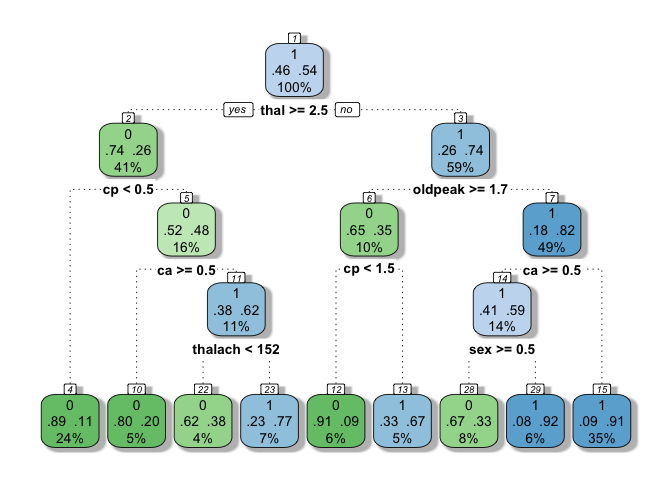
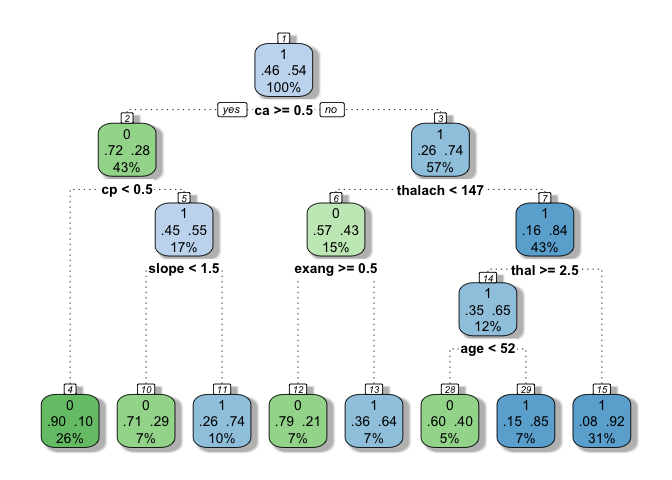
Update Heart Disease project

diff --git a/Data_Science_projects/Heart_disease_risk_analysis/heart-disease-eda-and-random-forest-with-r.md b/Data_Science_projects/Heart_disease_risk_analysis/heart-disease-eda-and-random-forest-with-r.md
@@ -1,6 +1,5 @@
 Heart Disease: EDA and Random forest with R
 ================
-William Guesdon
 Compiled: February 07, 2021
 
 ## Introduction
@@ -988,7 +987,7 @@ According to parameters the model should be at least 88% accurate.
 cat("Model accuracy", round(accuracy, digits = 2)*100, "%")  
 ```
 
-    ## Model accuracy 87 %
+    ## Model accuracy 86 %
 
 Print the desicion tree.
 
@@ -1031,7 +1030,7 @@ According to parameters the model should be at least 88% accurate.
 cat("Model accuracy", round(accuracy, digits = 2)*100, "%")  
 ```
 
-    ## Model accuracy 88 %
+    ## Model accuracy 89 %
 
 Print the desicion tree.
 
@@ -1050,7 +1049,7 @@ fancyRpartPlot(mod_class, , caption = NULL)
 ### C Prediction on selected column with random forest
 
 ``` r
-set.seed(103)
+set.seed(123)
 train <- sample(nrow(df_select), 0.7*nrow(df_select), replace = FALSE)
 TrainSet <- df_select[train,]
 ValidSet <- df_select[-train,]
@@ -1058,38 +1057,38 @@ summary(TrainSet)
 ```
 
     ##  target       age             sex              chol        restecg      
-    ##  0: 93   Min.   :29.00   Min.   :0.0000   Min.   :126   Min.   :0.0000  
-    ##  1:114   1st Qu.:46.50   1st Qu.:0.0000   1st Qu.:211   1st Qu.:0.0000  
-    ##          Median :55.00   Median :1.0000   Median :239   Median :1.0000  
-    ##          Mean   :54.03   Mean   :0.6908   Mean   :246   Mean   :0.5411  
-    ##          3rd Qu.:60.00   3rd Qu.:1.0000   3rd Qu.:277   3rd Qu.:1.0000  
+    ##  0: 91   Min.   :29.00   Min.   :0.0000   Min.   :126   Min.   :0.0000  
+    ##  1:116   1st Qu.:48.00   1st Qu.:0.0000   1st Qu.:208   1st Qu.:0.0000  
+    ##          Median :56.00   Median :1.0000   Median :240   Median :0.0000  
+    ##          Mean   :55.02   Mean   :0.6763   Mean   :244   Mean   :0.5024  
+    ##          3rd Qu.:62.00   3rd Qu.:1.0000   3rd Qu.:272   3rd Qu.:1.0000  
     ##          Max.   :77.00   Max.   :1.0000   Max.   :564   Max.   :2.0000  
-    ##        cp            thalach          slope      
-    ##  Min.   :0.0000   Min.   : 88.0   Min.   :0.000  
-    ##  1st Qu.:0.0000   1st Qu.:132.0   1st Qu.:1.000  
-    ##  Median :1.0000   Median :152.0   Median :1.000  
-    ##  Mean   :0.9903   Mean   :149.3   Mean   :1.377  
-    ##  3rd Qu.:2.0000   3rd Qu.:167.5   3rd Qu.:2.000  
-    ##  Max.   :3.0000   Max.   :202.0   Max.   :2.000
+    ##        cp           thalach          slope      
+    ##  Min.   :0.000   Min.   : 95.0   Min.   :0.000  
+    ##  1st Qu.:0.000   1st Qu.:136.0   1st Qu.:1.000  
+    ##  Median :1.000   Median :153.0   Median :1.000  
+    ##  Mean   :1.014   Mean   :150.2   Mean   :1.386  
+    ##  3rd Qu.:2.000   3rd Qu.:165.0   3rd Qu.:2.000  
+    ##  Max.   :3.000   Max.   :202.0   Max.   :2.000
 
 ``` r
 summary(ValidSet)
 ```
 
-    ##  target      age             sex              chol          restecg      
-    ##  0:43   Min.   :34.00   Min.   :0.0000   Min.   :131.0   Min.   :0.0000  
-    ##  1:46   1st Qu.:50.00   1st Qu.:0.0000   1st Qu.:213.0   1st Qu.:0.0000  
-    ##         Median :57.00   Median :1.0000   Median :245.0   Median :0.0000  
-    ##         Mean   :55.67   Mean   :0.6517   Mean   :249.9   Mean   :0.4831  
-    ##         3rd Qu.:62.00   3rd Qu.:1.0000   3rd Qu.:274.0   3rd Qu.:1.0000  
-    ##         Max.   :74.00   Max.   :1.0000   Max.   :417.0   Max.   :1.0000  
+    ##  target      age             sex              chol          restecg     
+    ##  0:45   Min.   :35.00   Min.   :0.0000   Min.   :175.0   Min.   :0.000  
+    ##  1:44   1st Qu.:47.00   1st Qu.:0.0000   1st Qu.:223.0   1st Qu.:0.000  
+    ##         Median :54.00   Median :1.0000   Median :247.0   Median :1.000  
+    ##         Mean   :53.37   Mean   :0.6854   Mean   :254.5   Mean   :0.573  
+    ##         3rd Qu.:59.00   3rd Qu.:1.0000   3rd Qu.:283.0   3rd Qu.:1.000  
+    ##         Max.   :70.00   Max.   :1.0000   Max.   :409.0   Max.   :2.000  
     ##        cp            thalach          slope      
     ##  Min.   :0.0000   Min.   : 71.0   Min.   :0.000  
-    ##  1st Qu.:0.0000   1st Qu.:142.0   1st Qu.:1.000  
-    ##  Median :0.0000   Median :154.0   Median :2.000  
-    ##  Mean   :0.8876   Mean   :150.2   Mean   :1.438  
-    ##  3rd Qu.:2.0000   3rd Qu.:163.0   3rd Qu.:2.000  
-    ##  Max.   :3.0000   Max.   :192.0   Max.   :2.000
+    ##  1st Qu.:0.0000   1st Qu.:132.0   1st Qu.:1.000  
+    ##  Median :0.0000   Median :152.0   Median :1.000  
+    ##  Mean   :0.8315   Mean   :148.2   Mean   :1.416  
+    ##  3rd Qu.:2.0000   3rd Qu.:168.0   3rd Qu.:2.000  
+    ##  Max.   :3.0000   Max.   :190.0   Max.   :2.000
 
 ``` r
 # Create a Random Forest model with default parameters
@@ -1104,11 +1103,11 @@ model1
     ##                      Number of trees: 1000
     ## No. of variables tried at each split: 1
     ## 
-    ##         OOB estimate of  error rate: 26.09%
+    ##         OOB estimate of  error rate: 28.02%
     ## Confusion matrix:
     ##    0  1 class.error
-    ## 0 66 27   0.2903226
-    ## 1 27 87   0.2368421
+    ## 0 58 33   0.3626374
+    ## 1 25 91   0.2155172
 
 ``` r
 # Predicting on train set
@@ -1119,8 +1118,8 @@ table(predTrain, TrainSet$target)
 
     ##          
     ## predTrain   0   1
-    ##         0  84  10
-    ##         1   9 104
+    ##         0  80   9
+    ##         1  11 107
 
 ``` r
 # Predicting on Validation set
@@ -1129,7 +1128,7 @@ predValid <- predict(model1, ValidSet, type = "class")
 mean(predValid == ValidSet$target)                    
 ```
 
-    ## [1] 0.8426966
+    ## [1] 0.7977528
 
 ``` r
 table(predValid,ValidSet$target)
@@ -1137,22 +1136,22 @@ table(predValid,ValidSet$target)
 
     ##          
     ## predValid  0  1
-    ##         0 34  5
-    ##         1  9 41
+    ##         0 36  9
+    ##         1  9 35
 
 ``` r
 # To check important variables
 importance(model1)        
 ```
 
-    ##                  0          1 MeanDecreaseAccuracy MeanDecreaseGini
-    ## age      8.5635858  8.1274728           11.2387546        10.754847
-    ## sex     20.7787044 16.4186188           22.8891913         5.828656
-    ## chol    -0.6401581  0.1514547           -0.3373315         9.016257
-    ## restecg  3.2825129 -0.2000304            2.0950618         2.718995
-    ## cp      21.0887042 22.3577590           25.9377637        11.363132
-    ## thalach 13.9497972 12.7792174           18.4671834        13.544435
-    ## slope   16.3291696 14.9037870           20.2973077         7.420501
+    ##                 0            1 MeanDecreaseAccuracy MeanDecreaseGini
+    ## age      3.456978 11.118814352            10.045334        10.174882
+    ## sex     17.986950 18.447097660            22.356657         6.212641
+    ## chol    -3.667658 -0.005187581            -2.378170         9.368247
+    ## restecg  1.926634  3.951377314             4.138125         3.080821
+    ## cp      19.676722 17.420672992            22.537720        10.408636
+    ## thalach 14.987882 12.899451821            18.350082        14.006896
+    ## slope   13.982290  9.048798817            15.232708         6.022085
 
 ``` r
 varImpPlot(model1)  
@@ -1163,72 +1162,65 @@ varImpPlot(model1)
 ### D Use the full dataset for classification with random forest
 
 ``` r
-set.seed(103)
+set.seed(123)
 train <- sample(nrow(df), 0.7*nrow(df_select), replace = FALSE)
 TrainSet <- df[train,]
 ValidSet <- df[-train,]
 summary(TrainSet)
 ```
 
-    ##       age             sex               cp            trestbps    
-    ##  Min.   :29.00   Min.   :0.0000   Min.   :0.0000   Min.   : 94.0  
-    ##  1st Qu.:46.50   1st Qu.:0.0000   1st Qu.:0.0000   1st Qu.:120.0  
-    ##  Median :55.00   Median :1.0000   Median :1.0000   Median :130.0  
-    ##  Mean   :54.03   Mean   :0.6908   Mean   :0.9903   Mean   :130.6  
-    ##  3rd Qu.:60.00   3rd Qu.:1.0000   3rd Qu.:2.0000   3rd Qu.:140.0  
-    ##  Max.   :77.00   Max.   :1.0000   Max.   :3.0000   Max.   :200.0  
-    ##       chol          fbs            restecg          thalach     
-    ##  Min.   :126   Min.   :0.0000   Min.   :0.0000   Min.   : 88.0  
-    ##  1st Qu.:211   1st Qu.:0.0000   1st Qu.:0.0000   1st Qu.:132.0  
-    ##  Median :239   Median :0.0000   Median :1.0000   Median :152.0  
-    ##  Mean   :246   Mean   :0.1498   Mean   :0.5411   Mean   :149.3  
-    ##  3rd Qu.:277   3rd Qu.:0.0000   3rd Qu.:1.0000   3rd Qu.:167.5  
-    ##  Max.   :564   Max.   :1.0000   Max.   :2.0000   Max.   :202.0  
-    ##      exang           oldpeak          slope             ca        
-    ##  Min.   :0.0000   Min.   :0.000   Min.   :0.000   Min.   :0.0000  
-    ##  1st Qu.:0.0000   1st Qu.:0.000   1st Qu.:1.000   1st Qu.:0.0000  
-    ##  Median :0.0000   Median :1.000   Median :1.000   Median :0.0000  
-    ##  Mean   :0.3237   Mean   :1.146   Mean   :1.377   Mean   :0.7053  
-    ##  3rd Qu.:1.0000   3rd Qu.:1.800   3rd Qu.:2.000   3rd Qu.:1.0000  
-    ##  Max.   :1.0000   Max.   :5.600   Max.   :2.000   Max.   :3.0000  
-    ##       thal       target 
-    ##  Min.   :1.000   0: 93  
-    ##  1st Qu.:2.000   1:114  
-    ##  Median :2.000          
-    ##  Mean   :2.309          
-    ##  3rd Qu.:3.000          
-    ##  Max.   :3.000
+    ##       age             sex               cp           trestbps          chol    
+    ##  Min.   :29.00   Min.   :0.0000   Min.   :0.000   Min.   :100.0   Min.   :126  
+    ##  1st Qu.:48.00   1st Qu.:0.0000   1st Qu.:0.000   1st Qu.:120.0   1st Qu.:208  
+    ##  Median :56.00   Median :1.0000   Median :1.000   Median :130.0   Median :240  
+    ##  Mean   :55.02   Mean   :0.6763   Mean   :1.014   Mean   :131.1   Mean   :244  
+    ##  3rd Qu.:62.00   3rd Qu.:1.0000   3rd Qu.:2.000   3rd Qu.:140.0   3rd Qu.:272  
+    ##  Max.   :77.00   Max.   :1.0000   Max.   :3.000   Max.   :192.0   Max.   :564  
+    ##       fbs            restecg          thalach          exang       
+    ##  Min.   :0.0000   Min.   :0.0000   Min.   : 95.0   Min.   :0.0000  
+    ##  1st Qu.:0.0000   1st Qu.:0.0000   1st Qu.:136.0   1st Qu.:0.0000  
+    ##  Median :0.0000   Median :0.0000   Median :153.0   Median :0.0000  
+    ##  Mean   :0.1643   Mean   :0.5024   Mean   :150.2   Mean   :0.3382  
+    ##  3rd Qu.:0.0000   3rd Qu.:1.0000   3rd Qu.:165.0   3rd Qu.:1.0000  
+    ##  Max.   :1.0000   Max.   :2.0000   Max.   :202.0   Max.   :1.0000  
+    ##     oldpeak          slope             ca              thal       target 
+    ##  Min.   :0.000   Min.   :0.000   Min.   :0.0000   Min.   :1.000   0: 91  
+    ##  1st Qu.:0.000   1st Qu.:1.000   1st Qu.:0.0000   1st Qu.:2.000   1:116  
+    ##  Median :0.800   Median :1.000   Median :0.0000   Median :2.000          
+    ##  Mean   :1.055   Mean   :1.386   Mean   :0.6039   Mean   :2.319          
+    ##  3rd Qu.:1.600   3rd Qu.:2.000   3rd Qu.:1.0000   3rd Qu.:3.000          
+    ##  Max.   :6.200   Max.   :2.000   Max.   :3.0000   Max.   :3.000
 
 ``` r
 summary(ValidSet)
 ```
 
-    ##       age             sex               cp            trestbps  
-    ##  Min.   :34.00   Min.   :0.0000   Min.   :0.0000   Min.   : 94  
-    ##  1st Qu.:50.00   1st Qu.:0.0000   1st Qu.:0.0000   1st Qu.:120  
-    ##  Median :57.00   Median :1.0000   Median :0.0000   Median :132  
-    ##  Mean   :55.67   Mean   :0.6517   Mean   :0.8876   Mean   :134  
-    ##  3rd Qu.:62.00   3rd Qu.:1.0000   3rd Qu.:2.0000   3rd Qu.:145  
-    ##  Max.   :74.00   Max.   :1.0000   Max.   :3.0000   Max.   :180  
-    ##       chol            fbs            restecg          thalach     
-    ##  Min.   :131.0   Min.   :0.0000   Min.   :0.0000   Min.   : 71.0  
-    ##  1st Qu.:213.0   1st Qu.:0.0000   1st Qu.:0.0000   1st Qu.:142.0  
-    ##  Median :245.0   Median :0.0000   Median :0.0000   Median :154.0  
-    ##  Mean   :249.9   Mean   :0.1348   Mean   :0.4831   Mean   :150.2  
-    ##  3rd Qu.:274.0   3rd Qu.:0.0000   3rd Qu.:1.0000   3rd Qu.:163.0  
-    ##  Max.   :417.0   Max.   :1.0000   Max.   :1.0000   Max.   :192.0  
-    ##      exang           oldpeak           slope             ca       
-    ##  Min.   :0.0000   Min.   :0.0000   Min.   :0.000   Min.   :0.000  
-    ##  1st Qu.:0.0000   1st Qu.:0.0000   1st Qu.:1.000   1st Qu.:0.000  
-    ##  Median :0.0000   Median :0.5000   Median :2.000   Median :0.000  
-    ##  Mean   :0.3371   Mean   :0.8573   Mean   :1.438   Mean   :0.618  
-    ##  3rd Qu.:1.0000   3rd Qu.:1.2000   3rd Qu.:2.000   3rd Qu.:1.000  
-    ##  Max.   :1.0000   Max.   :6.2000   Max.   :2.000   Max.   :3.000  
+    ##       age             sex               cp            trestbps    
+    ##  Min.   :35.00   Min.   :0.0000   Min.   :0.0000   Min.   : 94.0  
+    ##  1st Qu.:47.00   1st Qu.:0.0000   1st Qu.:0.0000   1st Qu.:120.0  
+    ##  Median :54.00   Median :1.0000   Median :0.0000   Median :130.0  
+    ##  Mean   :53.37   Mean   :0.6854   Mean   :0.8315   Mean   :132.8  
+    ##  3rd Qu.:59.00   3rd Qu.:1.0000   3rd Qu.:2.0000   3rd Qu.:146.0  
+    ##  Max.   :70.00   Max.   :1.0000   Max.   :3.0000   Max.   :200.0  
+    ##       chol            fbs            restecg         thalach     
+    ##  Min.   :175.0   Min.   :0.0000   Min.   :0.000   Min.   : 71.0  
+    ##  1st Qu.:223.0   1st Qu.:0.0000   1st Qu.:0.000   1st Qu.:132.0  
+    ##  Median :247.0   Median :0.0000   Median :1.000   Median :152.0  
+    ##  Mean   :254.5   Mean   :0.1011   Mean   :0.573   Mean   :148.2  
+    ##  3rd Qu.:283.0   3rd Qu.:0.0000   3rd Qu.:1.000   3rd Qu.:168.0  
+    ##  Max.   :409.0   Max.   :1.0000   Max.   :2.000   Max.   :190.0  
+    ##      exang           oldpeak          slope             ca        
+    ##  Min.   :0.0000   Min.   :0.000   Min.   :0.000   Min.   :0.0000  
+    ##  1st Qu.:0.0000   1st Qu.:0.000   1st Qu.:1.000   1st Qu.:0.0000  
+    ##  Median :0.0000   Median :0.800   Median :1.000   Median :1.0000  
+    ##  Mean   :0.3034   Mean   :1.069   Mean   :1.416   Mean   :0.8539  
+    ##  3rd Qu.:1.0000   3rd Qu.:1.900   3rd Qu.:2.000   3rd Qu.:1.0000  
+    ##  Max.   :1.0000   Max.   :4.400   Max.   :2.000   Max.   :3.0000  
     ##       thal       target
-    ##  Min.   :1.000   0:43  
-    ##  1st Qu.:2.000   1:46  
+    ##  Min.   :1.000   0:45  
+    ##  1st Qu.:2.000   1:44  
     ##  Median :2.000         
-    ##  Mean   :2.371         
+    ##  Mean   :2.348         
     ##  3rd Qu.:3.000         
     ##  Max.   :3.000
 
@@ -1245,11 +1237,11 @@ model2
     ##                      Number of trees: 1000
     ## No. of variables tried at each split: 2
     ## 
-    ##         OOB estimate of  error rate: 19.81%
+    ##         OOB estimate of  error rate: 20.77%
     ## Confusion matrix:
-    ##    0  1 class.error
-    ## 0 71 22   0.2365591
-    ## 1 19 95   0.1666667
+    ##    0   1 class.error
+    ## 0 63  28   0.3076923
+    ## 1 15 101   0.1293103
 
 ``` r
 # Predicting on train set
@@ -1260,8 +1252,8 @@ table(predTrain, TrainSet$target)
 
     ##          
     ## predTrain   0   1
-    ##         0  93   0
-    ##         1   0 114
+    ##         0  91   0
+    ##         1   0 116
 
 ``` r
 # Predicting on Validation set
@@ -1270,7 +1262,7 @@ predValid <- predict(model2, ValidSet, type = "class")
 mean(predValid == ValidSet$target)                    
 ```
 
-    ## [1] 0.8876404
+    ## [1] 0.8764045
 
 ``` r
 table(predValid,ValidSet$target)
@@ -1278,28 +1270,28 @@ table(predValid,ValidSet$target)
 
     ##          
     ## predValid  0  1
-    ##         0 34  1
-    ##         1  9 45
+    ##         0 39  5
+    ##         1  6 39
 
 ``` r
 # To check important variables
 importance(model2)        
 ```
 
-    ##                   0          1 MeanDecreaseAccuracy MeanDecreaseGini
-    ## age       3.5531855  6.9841836           7.26413831         8.399466
-    ## sex       5.4296622 10.6451739          11.20179489         3.769720
-    ## cp       13.1854993  8.8365604          14.94704991         9.342946
-    ## trestbps -0.7248403  2.6564089           1.49917817         7.100646
-    ## chol     -1.4289861 -1.6216622          -2.22440917         7.682719
-    ## fbs       0.1249613  1.5281060           1.23237510         1.435625
-    ## restecg  -0.1085154  0.4856894           0.04541514         2.184212
-    ## thalach   2.2711310  9.6719216           8.58938320        11.784905
-    ## exang     7.4776841  7.2417434          10.31578378         5.023431
-    ## oldpeak  16.7213070 13.5158911          20.58424679        12.044601
-    ## slope     8.5126201  5.2090096           9.46218293         4.917241
-    ## ca       23.4603133 28.5683118          32.68822956        14.574756
-    ## thal     13.2246941 19.8485560          22.23692307         8.882171
+    ##                  0          1 MeanDecreaseAccuracy MeanDecreaseGini
+    ## age       4.050036  6.7463054             7.778196         8.939681
+    ## sex       8.638348 14.3957620            15.929672         4.589083
+    ## cp       15.051396 11.2883097            17.483834         9.059950
+    ## trestbps  1.813027  0.9226925             2.032148         7.050590
+    ## chol     -1.726460 -2.4182808            -2.982013         8.319708
+    ## fbs      -1.802818  4.1916949             2.098540         1.367634
+    ## restecg   1.178421  2.2335381             2.450169         2.609878
+    ## thalach   9.766391 10.4880323            14.128124        12.069991
+    ## exang     9.185204  5.9611054            10.635688         4.988638
+    ## oldpeak  18.583582 18.0805610            24.266457        12.847074
+    ## slope     8.688542  4.0812821             9.073868         4.321699
+    ## ca       22.053674 24.4175996            29.812574        11.204931
+    ## thal     14.724654 16.1138529            19.564541         8.636882
 
 ``` r
 varImpPlot(model2)  
